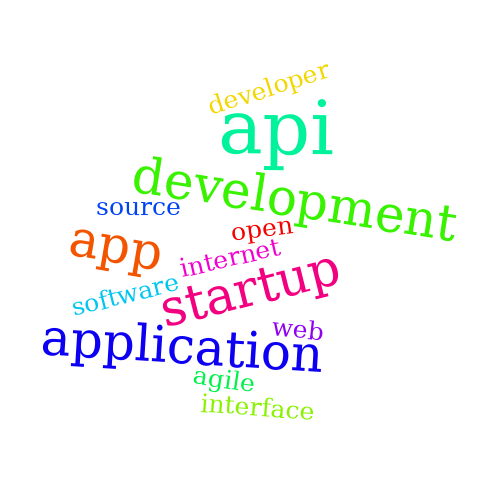
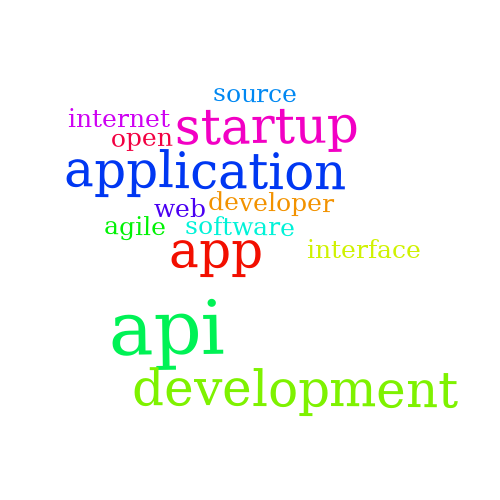
update word clouds

Changed region(s): [[0.09, 0.12, 0.93, 0.84]]

diff --git a/cli/modules/commands.py b/cli/modules/commands.py
@@ -6,6 +6,15 @@ import requests
 import json
 
 logger = Logger()
+
+
+def add_word_to_set(dest_set, source_set, word):
+    if word in dest_set:
+        dest_set[word] += source_set[word]
+    else:
+        dest_set[word] = source_set[word]
+
+
 class Commands:
     def __init__(self, initializer: Initializer):
         self.initializer = initializer
@@ -99,6 +108,8 @@ class Commands:
             'fontScale': 25,
             'scale': 'linear',
             'padding': 1,
+            'rotation': 1,
+            # 'colors': ["red", "#00ff00", "rgba(0, 0, 255, 1.0)"],
             'removeStopwords': False,
             'minWordLength': 1,
             'text': words,
@@ -139,4 +150,120 @@ class Commands:
         file_name = self.initializer.LG.user.username + '_followers_cloud.png'
 
         with open('datasets/word_clouds/' + file_name, 'wb') as f:
+            f.write(resp.content)
+
+    def generate_followers_surprise_word_cloud(self):
+        surprise_words = {}
+        costumer_words_as_str: str = self.initializer.EXCEL[0]['customer relevance set']
+        costumer_relevance_set = json.loads(costumer_words_as_str.replace("'", '"'))
+        words: str = ''
+        for row in self.initializer.EXCEL:
+            follower_words_as_str: str = row['follower set']
+            follower_relevance_set = json.loads(follower_words_as_str.replace("'", '"'))
+            for key in follower_relevance_set:
+                if key in follower_relevance_set and key not in costumer_relevance_set:
+                    add_word_to_set(surprise_words, follower_relevance_set, key)
+                elif key in costumer_relevance_set and key not in follower_relevance_set:
+                    add_word_to_set(surprise_words, costumer_relevance_set, key)
+
+        for key in surprise_words:
+            for i in range(surprise_words[key]):
+                words += key + " "
+
+        file_name = self.initializer.LG.user.username + '_followers_surprise_words_cloud.png'
+
+        resp = requests.post('https://quickchart.io/wordcloud', json={
+            'format': 'png',
+            'width': 500000,
+            'height': 500000,
+            'fontScale': 1,
+            'scale': 'linear',
+            'padding': 1,
+            'rotation': 1,
+            'minWordLength': 1,
+            'text': words,
+        })
+
+        with open('datasets/word_clouds/followers_surprise_words_clouds/' + file_name, 'wb') as f:
+            f.write(resp.content)
+
+    def generate_10_best_followers_relevance_cloud(self):
+        _sets = []
+        relevance_words = {}
+        words: str = ''
+        for row in self.initializer.EXCEL:
+            follower_words_as_str: str = row['follower set']
+            follower_relevance_set = json.loads(follower_words_as_str.replace("'", '"'))
+            _sets.append(follower_relevance_set)
+
+        _sets.sort(key=lambda x: -len(x))
+
+        for i in range(10):
+            _dict = _sets[i]
+            for key in _dict:
+                add_word_to_set(relevance_words, _dict, key)
+
+        for key in relevance_words:
+            for i in range(relevance_words[key]):
+                words += key + " "
+
+        json_file_name = self.initializer.LG.user.username + '_10_best_followers_relevance_cloud.json'
+        with open('datasets/word_clouds/10_best_followers_relevance/' + json_file_name, 'w') as outfile:
+            json.dump(relevance_words, outfile)
+
+        resp = requests.post('https://quickchart.io/wordcloud', json={
+            'format': 'png',
+            'width': 3000,
+            'height': 3000,
+            'fontScale': 15,
+            'rotation': 1,
+            'scale': 'linear',
+            'text': words,
+        })
+
+        file_name = self.initializer.LG.user.username + '_10_best_followers_relevance_cloud.png'
+        with open('datasets/word_clouds/10_best_followers_relevance/' + file_name, 'wb') as f:
+            f.write(resp.content)
+
+    def generate_10_best_followers_surprise_cloud(self):
+        _sets = []
+        costumer_words_as_str: str = self.initializer.EXCEL[0]['customer relevance set']
+        costumer_relevance_set = json.loads(costumer_words_as_str.replace("'", '"'))
+        surprise_words = {}
+        words: str = ''
+        for row in self.initializer.EXCEL:
+            follower_words_as_str: str = row['follower set']
+            follower_relevance_set = json.loads(follower_words_as_str.replace("'", '"'))
+            _sets.append(follower_relevance_set)
+
+        _sets.sort(key=lambda x: -len(x))
+
+        for i in range(10):
+            _dict = _sets[i]
+            for key in _dict:
+                if key in _dict and key not in costumer_relevance_set:
+                    add_word_to_set(surprise_words, _dict, key)
+                elif key in costumer_relevance_set and key not in _dict:
+                    add_word_to_set(surprise_words, costumer_relevance_set, key)
+
+        for key in surprise_words:
+            for i in range(surprise_words[key]):
+                words += key + " "
+
+        json_file_name = self.initializer.LG.user.username + '_10_best_followers_surprise_cloud.json'
+        with open('datasets/word_clouds/10_best_followers_surprise/' + json_file_name, 'w') as outfile:
+            json.dump(surprise_words, outfile)
+
+        resp = requests.post('https://quickchart.io/wordcloud', json={
+            'format': 'png',
+            'width': 3000,
+            'height': 3000,
+            'fontScale': 15,
+            'rotation': 1,
+            'scale': 'linear',
+            'text': words,
+        })
+
+        file_name = self.initializer.LG.user.username + '_10_best_followers_surprise_cloud.png'
+        with open('datasets/word_clouds/10_best_followers_surprise/' + file_name, 'wb') as f:
             f.write(resp.content)

diff --git a/cli/modules/interface.py b/cli/modules/interface.py
@@ -64,6 +64,23 @@ class Interface:
             if answers['instruction'] == 'Word Cloud: Generate followers word cloud':
                 self.commands.generate_followers_word_cloud()
                 continue
+            if answers['instruction'] == 'Word Cloud: Generate followers surprise words cloud':
+                self.commands.generate_followers_surprise_word_cloud()
+                continue
+            if answers['instruction'] == 'Word Cloud: Generate 10-best followers words cloud':
+                answers = prompt(constants.build_10_best_followers_word_cloud_options, style=constants.cli_style)
+                self.handle_10_best_followers_word_clouds_routine(answers['options'])
+                continue
+
+    def handle_10_best_followers_word_clouds_routine(self, answer):
+        if answer == 'Back':
+            return
+        if answer == 'Relevance':
+            self.commands.generate_10_best_followers_relevance_cloud()
+            pass
+        if answer == 'Surprise':
+            self.commands.generate_10_best_followers_surprise_cloud()
+            pass
 
     def handle_sub_graph_routine(self, answer):
         if answer == 'Back':

diff --git a/cli/modules/cli_constants.py b/cli/modules/cli_constants.py
@@ -45,7 +45,34 @@ cli_instructions = [
                 'name': 'Word Cloud: Generate followers word cloud'
             },
             {
+                'name': 'Word Cloud: Generate followers surprise words cloud'
+            },
+            {
+                'name': 'Word Cloud: Generate 10-best followers words cloud'
+            },
+            {
                 'name': 'Exit'
+            },
+        ],
+        'validate': lambda answer: 'You must choose at least one instruction.' if len(answer) == 0 else True
+    }
+]
+
+build_10_best_followers_word_cloud_options = [
+    {
+        'type': 'list',
+        'message': 'Sub graph options',
+        'name': 'options',
+        'choices': [
+            Separator('= Options menu ='),
+            {
+                'name': 'Surprise'
+            },
+            {
+                'name': 'Relevance'
+            },
+            {
+                'name': 'Back'
             },
         ],
         'validate': lambda answer: 'You must choose at least one instruction.' if len(answer) == 0 else True
